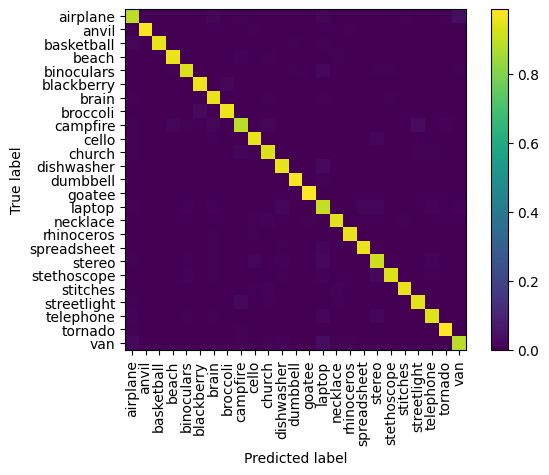
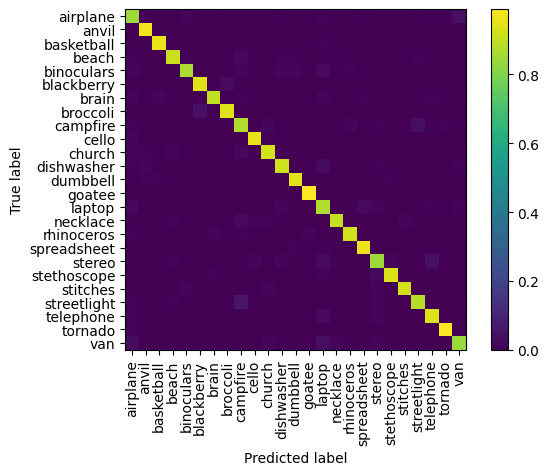
Testing with gridsearch

diff --git a/data/Dataset.py b/data/Dataset.py
@@ -15,7 +15,8 @@ class Dataset:
     Class to handle all necessary functionality and data handling related to the training, test and validation data.
     """
 
-    def __init__(self, csv_path, test_split, pipeline=None, val_split=0., shuffle=False, drop_duplicates=False):
+    def __init__(self, csv_path=None, train_data=None, val_data=None, test_data=None, test_split=0., pipeline=None,
+                 val_split=0., shuffle=False, drop_duplicates=False, encode_labels=True, random_state=42):
         """
         Constructor for the Dataset class.
         :param csv_path: Path to the CSV file that contains all the data.
@@ -25,36 +26,60 @@ class Dataset:
         :param remove_stopwords: Boolean to determine if stopwords (e.g., 'a', 'the', etc.) should be removed during
         preprocessing.
         """
-        self.test_split = test_split
-        self.val_split = val_split
-        self.shuffle = shuffle
+        self.__test_split = test_split
+        self.__val_split = val_split
+        self.__shuffle = shuffle
 
-        self.__data = pd.read_csv(csv_path)
+        if test_data is not None and test_split > 0.:
+            raise ValueError("Test split cannot be set because test data has been defined.")
+        if val_data is not None and val_split > 0.:
+            raise ValueError("Validation split cannot be set because validation data has been defined.")
+        if train_data is not None and shuffle is True:
+            raise ValueError("Unable to shuffle training data because training data is defined.")
+        if (train_data is not None and test_data is None) or (train_data is None and test_data is not None):
+            raise ValueError("Both training and test data need to be defined.")
+        if (train_data is not None or val_data is not None or test_data is not None) and csv_path is not None:
+            raise ValueError("Unable to define dataset .csv filepath while data is defined.")
 
-        pipeline = pipeline if pipeline is not None else ["make_lowercase", "expand_contractions",
-                                                          "clean_text", "remove_duplicates"]
-        self.__data = PreprocessingPipeline(self.__data, pipeline=pipeline).apply()
-
-        self.__data["label"] = self.__encode_labels(self.__data["label"])
-
-        if val_split > 0.:
-            self.train, self.val, self.test = self.__train_test_val_split()
+        pipeline = pipeline if pipeline is not None else ["make_lowercase", "expand_contractions", "clean_text",
+                                                          "remove_duplicates"]
+        if train_data is None and val_data is None and test_data is None:
+            self.__data = pd.read_csv(csv_path)
+            self.__data = PreprocessingPipeline(self.__data, pipeline=pipeline).apply()
+            self.__data["label"] = self.__encode_labels(self.__data["label"]) if encode_labels else self.__data["label"]
+            if self.__shuffle:
+                self.__data = self.__data.sample(frac=1).reset_index(drop=True)
+            if val_split > 0.:
+                self.train, self.val, self.test = self.__train_test_val_split()
+            else:
+                self.train, self.test = self.__train_test_val_split()
+                self.val = None
         else:
-            self.train, self.test = self.__train_test_val_split()
-            self.val = None
+            self.train = PreprocessingPipeline(train_data, pipeline=pipeline).apply()
+            self.test = PreprocessingPipeline(test_data, pipeline=pipeline).apply()
+            if val_data is not None:
+                self.val = PreprocessingPipeline(val_data, pipeline=pipeline).apply()
+            else:
+                self.val = None
+            if encode_labels:
+                self.__encode_labels(self.get_full_dataset()["label"])
+                self.train["label"] = self.label_encoder.transform(self.train["label"])
+                self.test["label"] = self.label_encoder.transform(self.test["label"])
+                if val_data is not None:
+                    self.val["label"] = self.label_encoder.transform(self.val["label"])
 
         if drop_duplicates:
             self.train = self.train.drop_duplicates(keep="first").reset_index(drop=True)
             self.test = self.test.drop_duplicates(keep="first").reset_index(drop=True)
-            if self.val_split > 0.:
+            if self.__val_split > 0.:
                 self.val = self.val.drop_duplicates(keep="first").reset_index(drop=True)
 
     def __train_test_val_split(self):
-        train = self.__data[:int(len(self.__data) * (1 - self.test_split))]
+        train = self.__data[:int(len(self.__data) * (1 - self.__test_split))]
         test = self.__data[len(train):]
-        if self.val_split > 0:
+        if self.__val_split > 0:
             temp = train
-            train = train[:int(len(train) * (1 - self.val_split))]
+            train = train[:int(len(train) * (1 - self.__val_split))]
             val = temp[len(train):]
             return train, test, val
         return train, test

diff --git a/models/SVM.py b/models/SVM.py
@@ -5,12 +5,13 @@ import numpy as np
 import optuna
 from matplotlib import pyplot as plt
 from sklearn.feature_extraction.text import CountVectorizer, TfidfVectorizer
-from sklearn.model_selection import train_test_split, cross_val_score
+from sklearn.model_selection import train_test_split, cross_val_score, GridSearchCV
 from sklearn.metrics import accuracy_score, f1_score, recall_score, precision_score, ConfusionMatrixDisplay
 from sklearn.neighbors import KNeighborsClassifier
 from sklearn.svm import SVC
 from hyperopt import hp, fmin, tpe, STATUS_OK, Trials, anneal
 
+from data.Dataset import Dataset
 from models.Model import Model
 
 
@@ -26,20 +27,17 @@ class SVM(Model):
         self.__params = params
         self.__param_space = {}
 
-    def fit(self, x_train=None, y_train=None):
-        x_train = self.__train["description"] if x_train is None else x_train
-        y_train = self.__train["label"] if y_train is None else y_train
-        x_train = self.__vectorizer.transform(x_train)
+    def fit(self):
+        x_train = self.__vectorizer.transform(self.__train["description"])
+        y_train = self.__train["label"]
 
-        model = SVC()
+        model = SVC(C=self.__params["C"], gamma=self.__params["gamma"])
         model.fit(x_train, y_train)
-
         self.__model = model
 
-    def evaluate(self, x_test=None, y_test=None, use_val=False):
-        if x_test is None and y_test is None:
-            y_test = self.__val["label"] if use_val else self.__test["label"]
-            x_test = self.__val["description"] if use_val else self.__test["description"]
+    def evaluate(self, use_val=False):
+        y_test = self.__val["label"] if use_val else self.__test["label"]
+        x_test = self.__val["description"] if use_val else self.__test["description"]
 
         x_test = self.__vectorizer.transform(x_test)
         y_pred = self.__model.predict(x_test)
@@ -54,14 +52,13 @@ class SVM(Model):
         cv = self.__dataset.get_cv_split(n_splits=n_splits)
         total = []
         for data in cv:
-            x_train = data["train"]["description"]
-            y_train = data["train"]["label"]
-            x_test = data["test"]["description"]
-            y_test = data["test"]["label"]
-            model = SVM(self.__dataset, self.__params)
-            model.fit(x_train, y_train)
-            results = model.evaluate(x_test, y_test)
-            print(results)
+            train_data = data["train"]
+            test_data = data["test"]
+            pipeline = ["make_lowercase", "expand_contractions", "clean_text"]
+            dataset = Dataset(train_data=train_data, test_data=test_data, pipeline=pipeline, drop_duplicates=True)
+            model = SVM(dataset, self.__params)
+            model.fit()
+            results = model.evaluate()
             total.append(results)
         total = np.array(total)
         return np.average(total, axis=0)
@@ -109,8 +106,19 @@ class SVM(Model):
         accuracy = accuracy_score(y_val, y_pred)
         return accuracy
 
-    def tune(self, n_trials, n_jobs, hyperparameters):
-        self.__param_space = hyperparameters
-        study = optuna.create_study(direction="maximize")
-        study.optimize(self.__objective, n_trials=n_trials, n_jobs=n_jobs)
-        return study.best_params
+    def __gridsearch(self, param_space):
+        x_train = self.__train["description"]
+        y_train = self.__train["label"]
+        x_train = self.__vectorizer.transform(x_train)
+        param_grid = {name: param["step"] for name, param in param_space.items()}
+        grid = GridSearchCV(SVC(), param_grid, refit=True, verbose=3)
+        grid.fit(x_train, y_train)
+        return grid.best_params_
+
+    def tune(self, n_trials, n_jobs, param_space, method="bayesian"):
+        self.__param_space = param_space
+        if method == "bayesian":
+            study = optuna.create_study(direction="maximize")
+            study.optimize(self.__objective, n_trials=n_trials, n_jobs=n_jobs)
+            return study.best_params
+        return self.__gridsearch(param_space)

diff --git a/tests/TestModelExperimentation.py b/tests/TestModelExperimentation.py
@@ -1,6 +1,8 @@
 import os.path
 import unittest
 
+import pandas as pd
+
 from data.Dataset import Dataset
 from data.GloVeEmbedding import GloVeEmbedding
 from models.LSTM import LSTM
@@ -95,12 +97,27 @@ class TestModelExperimentation(unittest.TestCase):
         print(model.evaluate())
         model.plot_confusion_matrix(show=False, save_filepath="../visualizations/confusion_matrix_knn.png")
 
+    def test_fit_knn_small(self):
+        data = pd.read_csv("../data/saved/descriptions_25.csv").sample(frac=1).reset_index(drop=True)
+        train_data = data[:12000]
+        val_data = data[12000:15000]
+        test_data = data[15000:20000]
+        pipeline = ["make_lowercase", "clean_text", "remove_stopwords"]
+        dataset = Dataset(train_data=train_data, val_data=val_data, test_data=test_data, pipeline=pipeline,
+                          drop_duplicates=True)
+        params = {"n_neighbors": 16, "weights": "distance", "p": 2}
+        model = kNN(dataset, params)
+        model.fit()
+        print(model.evaluate(use_val=True))
+        model.plot_confusion_matrix(show=False, save_filepath="../visualizations/confusion_matrix_knn.png")
+
     def test_cross_validate_knn(self):
         pipeline = ["make_lowercase", "clean_text", "remove_stopwords"]
         dataset = Dataset(csv_path=f"{self.data_filepath}/descriptions_25.csv", test_split=0.4, val_split=0.2,
                           shuffle=True, pipeline=pipeline, drop_duplicates=True)
-        model = kNN(dataset)
-        model.cross_validate(params={"n_neighbors": 8}, n_splits=3)
+        params = {"n_neighbors": 8}
+        model = kNN(dataset, params)
+        model.cross_validate(n_splits=3)
 
     def test_tune_knn(self):
         hyperparameters = {
@@ -133,7 +150,15 @@ class TestModelExperimentation(unittest.TestCase):
         params = {}
         model = SVM(dataset, params)
         hyperparameters = {
-            "C": {"min": 0.1, "max": 100, "step": [0.1, 1., 10., 100.]},
-            "gamma": {"min": 0.01, "max": 10, "step": [0.01, 0.1, 1., 10.]},
+            "C": {"min": 0.1, "max": 100, "step": [0.1, 1., 10., 100., 1000.]},
+            "gamma": {"min": 0.01, "max": 10, "step": [0.0001, 0.001, 0.01, 0.1, 1., 10.]},
         }
-        model.tune(n_trials=10, n_jobs=10, hyperparameters=hyperparameters)
+        model.tune(n_trials=10, n_jobs=10, param_space=hyperparameters, method="gridsearch")
+
+    def test_cross_validate_svm(self):
+        pipeline = ["make_lowercase", "expand_contractions" "clean_text"]
+        dataset = Dataset(csv_path=f"{self.data_filepath}/descriptions_25.csv", test_split=0.4, val_split=0.2,
+                          shuffle=True, pipeline=pipeline, drop_duplicates=True)
+        params = {"C": 10., "gamma": 0.1}
+        model = SVM(dataset, params)
+        model.cross_validate(n_splits=3)

diff --git a/models/kNN.py b/models/kNN.py
@@ -10,6 +10,7 @@ from sklearn.metrics import accuracy_score, f1_score, recall_score, precision_sc
 from sklearn.neighbors import KNeighborsClassifier
 from hyperopt import hp, fmin, tpe, STATUS_OK, Trials, anneal
 
+from data.Dataset import Dataset
 from models.Model import Model
 
 
@@ -25,20 +26,17 @@ class kNN(Model):
         self.__params = params
         self.__param_space = {}
 
-    def fit(self, x_train=None, y_train=None):
-        x_train = self.__train["description"] if x_train is None else x_train
-        y_train = self.__train["label"] if y_train is None else y_train
-        x_train = self.__vectorizer.transform(x_train)
+    def fit(self):
+        x_train = self.__vectorizer.transform(self.__train["description"])
+        y_train = self.__train["label"]
 
         model = KNeighborsClassifier(n_neighbors=self.__params["n_neighbors"])
         model.fit(x_train, y_train)
-
         self.__model = model
 
-    def evaluate(self, x_test=None, y_test=None, use_val=False):
-        if x_test is None and y_test is None:
-            y_test = self.__val["label"] if use_val else self.__test["label"]
-            x_test = self.__val["description"] if use_val else self.__test["description"]
+    def evaluate(self, use_val=False):
+        y_test = self.__val["label"] if use_val else self.__test["label"]
+        x_test = self.__val["description"] if use_val else self.__test["description"]
 
         x_test = self.__vectorizer.transform(x_test)
         y_pred = self.__model.predict(x_test)
@@ -53,13 +51,13 @@ class kNN(Model):
         cv = self.__dataset.get_cv_split(n_splits=n_splits)
         total = []
         for data in cv:
-            x_train = data["train"]["description"]
-            y_train = data["train"]["label"]
-            x_test = data["test"]["description"]
-            y_test = data["test"]["label"]
-            model = kNN(self.__dataset, self.__params)
-            model.fit(x_train, y_train)
-            results = model.evaluate(x_test, y_test)
+            train_data = data["train"]
+            test_data = data["test"]
+            pipeline = ["make_lowercase", "expand_contractions", "clean_text"]
+            dataset = Dataset(train_data=train_data, test_data=test_data, pipeline=pipeline, drop_duplicates=True)
+            model = kNN(dataset, self.__params)
+            model.fit()
+            results = model.evaluate()
             print(results)
             total.append(results)
         total = np.array(total)

diff --git a/tests/TestDataset.py b/tests/TestDataset.py
@@ -7,6 +7,31 @@ from data.Dataset import Dataset
 class TestDataset(unittest.TestCase):
     def setUp(self) -> None:
         self.data_filepath = f"{os.path.dirname(__file__)}/../data/saved"
+        self.pipeline = ["make_lowercase", "expand_contractions" "clean_text", "remove_stopwords"]
+        self.dataset = Dataset(csv_path=f"{self.data_filepath}/descriptions_25.csv", test_split=0.3, val_split=0.2,
+                               shuffle=True, pipeline=self.pipeline, drop_duplicates=True)
+
+    def test_dataset_csv(self):
+        print(self.dataset.train)
+        print(self.dataset.val)
+        print(self.dataset.test)
+
+    def test_dataset_set_data(self):
+        train_data = self.dataset.train[:1000]
+        val_data = self.dataset.val[:1000]
+        test_data = self.dataset.test[:1000]
+        dataset = Dataset(train_data=train_data, val_data=val_data, test_data=test_data, pipeline=self.pipeline,
+                          encode_labels=False, drop_duplicates=True)
+
+        print(dataset.val["label"].value_counts())
+        print(val_data["label"].value_counts())
+
+    def test_dataset_definition_errors(self):
+        train_data = self.dataset.train[:1000]
+        val_data = self.dataset.val[:1000]
+        test_data = self.dataset.test[:1000]
+        dataset = Dataset(csv_path="", train_data=train_data, val_data=val_data, test_data=test_data,
+                          pipeline=self.pipeline, encode_labels=False, drop_duplicates=True)
 
     def test_cv_split(self):
         pipeline = ["make_lowercase", "expand_contractions" "clean_text", "remove_stopwords"]

diff --git a/models/Model.py b/models/Model.py
@@ -3,11 +3,11 @@ from abc import ABC, abstractmethod
 
 class Model(ABC):
     @abstractmethod
-    def fit(self, x_train, y_train):
+    def fit(self):
         pass
 
     @abstractmethod
-    def evaluate(self, x_test, y_test):
+    def evaluate(self):
         pass
 
     @abstractmethod
